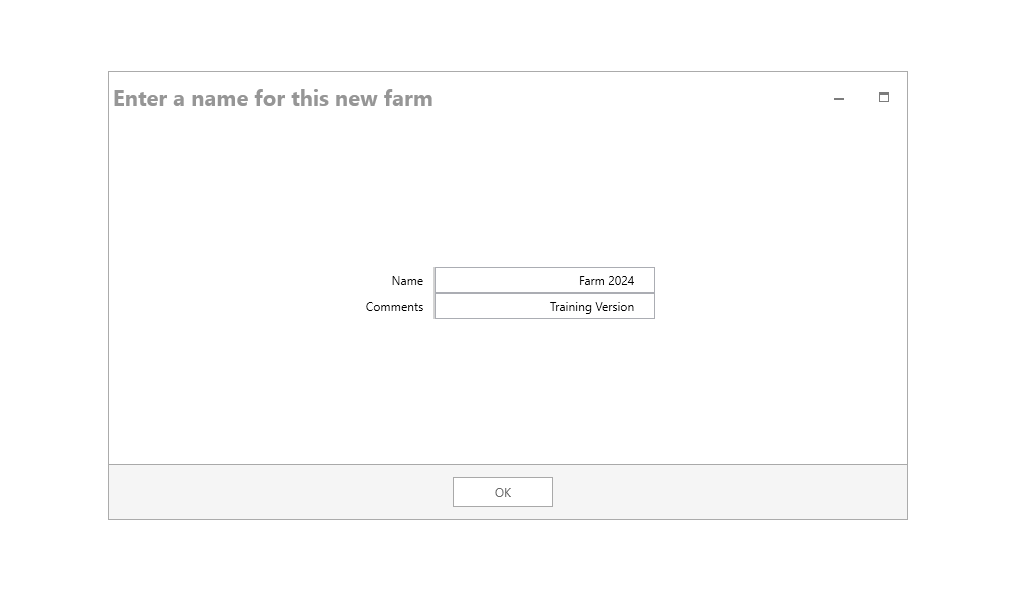
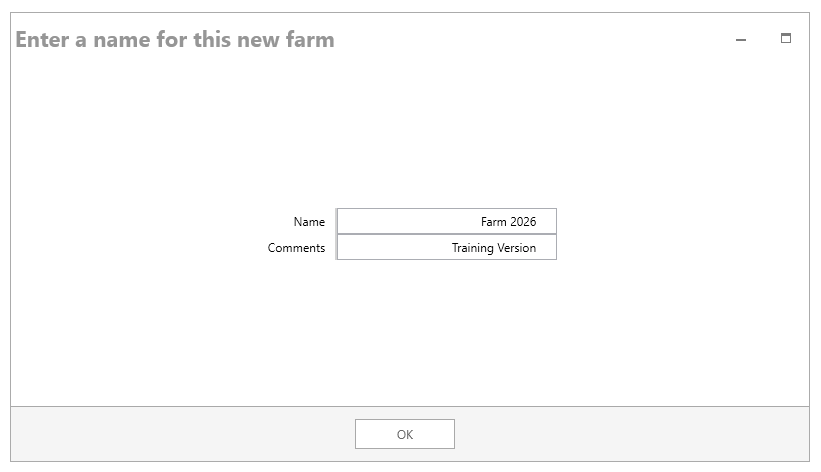
Update Dairy Guide for 2026

diff --git a/H.Content/Documentation/Dairy Training Guide/Holos_4_Dairy_Training_Guide.md b/H.Content/Documentation/Dairy Training Guide/Holos_4_Dairy_Training_Guide.md
@@ -12,7 +12,7 @@ Please note that Holos 4 can be installed on a Microsoft Windows PC only. Mac OS
 
 Launch Holos by double-clicking on the Holos desktop icon. Holos will ask the user to open an existing farm, create a new farm, or import a saved farm file (Figure 1). If there is already a saved farm in the system, the user can click **Open**. If there are no saved farms in the system, Holos will ask the user if they want to create a **New** farm or **Import** a saved farm file (i.e., a .json file). If the user creates a new farm, they are asked for the farm name and an optional comment (Figure 2).  
 
-Enter **"Holos 2024"** as the Name and **"Training Version"** in the Comments.  Click **OK** to proceed to the next screen.
+Enter **"Holos 2026"** as the Name and **"Training Version"** in the Comments.  Click **OK** to proceed to the next screen.
 
 Ensure **"Metric"** is selected as the unit of measurement type and then click the **Next** button at the bottom of the screen (Figure 3). 
 
@@ -151,7 +151,7 @@ Our first field on the farm will grow continuous wheat with a cover crop of hair
 
 1. Rename the field to **"Wheat & Hairy Vetch"** in the **Step 1** section of the screen. Change the area of the field to **18 ha**.
    
-2. Leave the start year as 1985 and change the end year to 2023.
+2. Leave the start year as 1985 and change the end year to 2026.
 
 3. Select **"Wheat"** as the main crop and **"Hairy Vetch"** as the cover crop in **Step 2**.
 
@@ -197,7 +197,7 @@ Our first field on the farm will grow continuous wheat with a cover crop of hair
 ### Native Grassland 
 
 1. Drag a new **Field** component to your list of components. Enter **"Native Grassland"** as the field name.
-2. Leave the start year as 1985 and change the end year to 2023.
+2. Leave the start year as 1985 and change the end year to 2026.
 3. Enter **"100"** ha as the total area of the field.
 4. Select **"Rangeland (Native)"** from the drop-down crop list in the **Crop** column under **Step 2**. Please note that Holos auto-populates the **Winter/Cover/Undersown Crop** field when a perennial crop is selected.
 5. Enter **"0" mm ha<sup>-1</sup>** as the amount of irrigation and **"0"** as the number of pesticide passes.
@@ -225,7 +225,7 @@ Adding animal components follows the same approach used for the land management 
 <br>
 
 <p align="center">
-    <img src="../../Images/DairyGuide/en/Figure14.gif" alt="Figure 14" width="950"/>
+    <img src="../../Images/DairyGuide/en/Figure13.gif" alt="Figure 14" width="950"/>
     <br>
     <em>Figure 13: The Dairy Cattle Component.</em>
 </p> 
@@ -240,7 +240,7 @@ Holos provides the user with the option to have more than one lactating cows gro
 
 1. Under **Step 1**, make sure that the **"Dairy lactating"** row is selected in order to enter the associated management information for that group of animals.
 
-2. Click the management period named **"Early lactation"** in **Step 2** to activate that management period. Ensure **"January 1, 2023"** is set as the start date and **"May 31, 2023"** as the end date (151 days). Note that the **Number of days** being shown is inclusive of the start and end dates.
+2. Click the management period named **"Early lactation"** in **Step 2** to activate that management period. Ensure **"January 1, 2025"** is set as the start date and **"May 31, 2025"** as the end date (150 days). Note that the **Number of days** being shown is inclusive of the start and end dates.
 
 3. Next, we can enter data related to the number of animals, housing type, manure system, and diet for our group of lactating cows under **Step 3**. 
 
@@ -265,7 +265,7 @@ Holos provides the user with the option to have more than one lactating cows gro
 <br>
 
 <p align="center">
-    <img src="../../Images/DairyGuide/en/Figure15.png" alt="Figure 15" width="850"/>
+    <img src="../../Images/DairyGuide/en/Figure14.png" alt="Figure 15" width="850"/>
     <br>
     <em>Figure 14: Custom diet creator for the Dairy Lactating animal group.</em>
 </p> 
@@ -288,13 +288,13 @@ Holos provides the user with the option to have more than one lactating cows gro
 
  12. Click on the **Manure** tab and select **"Liquid/Slurry with no natural crust"** from the list.
  
- 13. Click the management period named **"Mid lactation"** in **Step 2**. Ensure **"June 01, 2023"** is set as the start date and **"July 31, 2023"** as the end date (61 days). 
+ 13. Click the management period named **"Mid lactation"** in **Step 2**. Ensure **"June 01, 2025"** is set as the start date and **"July 31, 2025"** as the end date (60 days). 
  
  14. We can enter data related to the number of animals, housing type, manure system, and diet for our group of lactating cows under **Step 3** just as before.
  
  15. On the **General** tab enter **"65"** animals, on the **Diet** tab choose **"Custom Dairy Diet"**, on the **Housing** tab choose **"Tie stall (slurry)"**, and on the **Manure** tab choose **"Liquid/Slurry with no natural crust"**.
  
- 16. Click the management period named **"Late lactation"** in **Step 2**. Ensure **"August 01, 2023"** is set as the start date and **"November 04, 2023"** as the end date (96 days). 
+ 16. Click the management period named **"Late lactation"** in **Step 2**. Ensure **"August 01, 2025"** is set as the start date and **"November 04, 2025"** as the end date (95 days). 
  
  17. Repeat Step 16 above. Enter in the same information in **Step 3** for this management period.
 
@@ -306,11 +306,13 @@ Calves that are not used for replacement will enter into the veal system and are
 
 1. Under **Step 1**, make sure that the **"Calves"** row is selected in order to enter the associated management information for this group. 
 
-2. Under **Step 2**, the first management period will be from **"January 1, 2023"** to **"March 31, 2023"** (90 days).
+2. Under **Step 2**, the first management period will be from **"January 1, 2025"** to **"March 31, 2025"** (90 days).  
+  
+> *Note: A bug currently exists that if the date range of this management period is edited after a second management period is added, the number of days shown will be displayed incorrectly. A fix is being looked in to.*
 
 3. Under **Step 3**, click on the **General** tab and enter **"45"** as the number of animals. Click on the **Housing** tab and select **"Free stall barn (slurry scraping)"** as the housing type and click on the **Manure** tab to select **"Liquid/Slurry with no natural crust"**.
 
-4. Returning to **Step 2**, click on the **Add Management Period** button. This will add a second management period for our group of calves. Ensure the start date is **"April 01, 2023"** and the end date is "**June 30, 2023**" (90 days). Since we assumed a mortality rate of 4.4% at four months of age, we will adjust the number of animals in the second management period to **"43"**. The housing and manure management options are the same as for the first dairy calves management period.
+4. Returning to **Step 2**, click on the **Add Management Period** button. This will add a second management period for our group of calves. Ensure the start date is **"April 01, 2025"** and the end date is "**June 30, 2025**" (90 days). Since we assumed a mortality rate of 4.4% at four months of age, we will adjust the number of animals in the second management period to **"43"**. The housing and manure management options are the same as for the first dairy calves management period.
 
 <br>
 
@@ -324,7 +326,7 @@ Out of the 30 female calves produced, the farm selected 15 as replacement heifer
 
 1. Under **Step 1**, make sure that the **"Dairy heifers"** row is selected in order to enter the associated management information for that group.
 
-2. For **"Management period #1"**, enter **"January 01, 2023"** as the start date and **"December 31, 2023"** as the end date (365 days).
+2. For **"Management period #1"**, enter **"January 01, 2026"** as the start date and **"December 31, 2026"** as the end date (365 days).
 
 3. Click on the **General** tab and enter **"15"** as the number of animals.
 
@@ -342,7 +344,7 @@ In this dairy animal group there are 20 cows that are not milked, allowing for r
 
 1. Under **Step 1**, make sure that the **"Dairy dry"** row is selected in order to enter the associated management information for that group.
 
-2. Under **Step 2** in the **"Dry period"** management period, enter **"November 05, 2023"** as the start date and **"January 4, 2024"** as the end date (61 days).
+2. Under **Step 2** in the **"Dry period"** management period, enter **"November 05, 2025"** as the start date and **"January 4, 2026"** as the end date (61 days).
 
 3. Click on the **General** tab and enter **"20"** as the number of animals.
 
@@ -361,20 +363,23 @@ In Holos, the user can apply livestock manure to a field using either manure pro
 1. Select the **Wheat & hairy vetch** field from the list of components added to our farm.
 
 2. Click on the **Manure tab** and then click the **Add Manure Application** button.
-    * Select **"April 30, 2024"** as the date.
+    * Select **"April 30, 2026"** as the date.
     * Select **"Livestock"** as the origin of manure.
     * Select **"Dairy"** as the manure type.
     * Select **"Liquid/Slurry with no natural crust"** as the manure handling system.
     * Select **"Shallow injection"** as the application method.
     * Enter **"14,000 kg ha<sup>-1</sup>"** as the amount of manure applied to this field.
-4. Note that both chemical fertilizer and manure applications can be made on the same field.
+
+> Only dates in 2026 are valid as the chosen date must be in the same year which the currently selected crop is being grown.
+
+3. Note that both chemical fertilizer and manure applications can be made on the same field.
 
 > Holos provides an interactive gauge on the left of the manure tab to show the **Amount of Stored Manure N Remaining (Dairy cattle) (kg N)**, which adjusts to reflect the user's application choices and quantify the amount of stored manure (N) remaining for application.
 
 <br>
 
 <p align="center">
-    <img src="../../Images/DairyGuide/en/Figure15_Revised.png" alt="Figure 15" width="950"/>
+    <img src="../../Images/DairyGuide/en/Figure15.png" alt="Figure 15" width="950"/>
     <br>
     <em>Figure 15: Adding a manure application to a field.</em>
 </p>
@@ -449,7 +454,7 @@ We will adjust this grid so that we can view the above-ground and below-ground C
 
 2. On the far left of this screen, click the **Enable Columns** sidebar (located near the “Field name” column).
 
-3. Place a check beside **"Above-ground carbon input"** to show the column and remove the check beside the **'Notes'** column to hide it.
+3. Place a check beside **"Above-ground carbon input"** to show the column.
 
 4. Click the **'Enable Columns'** sidebar again to collapse it.
 
